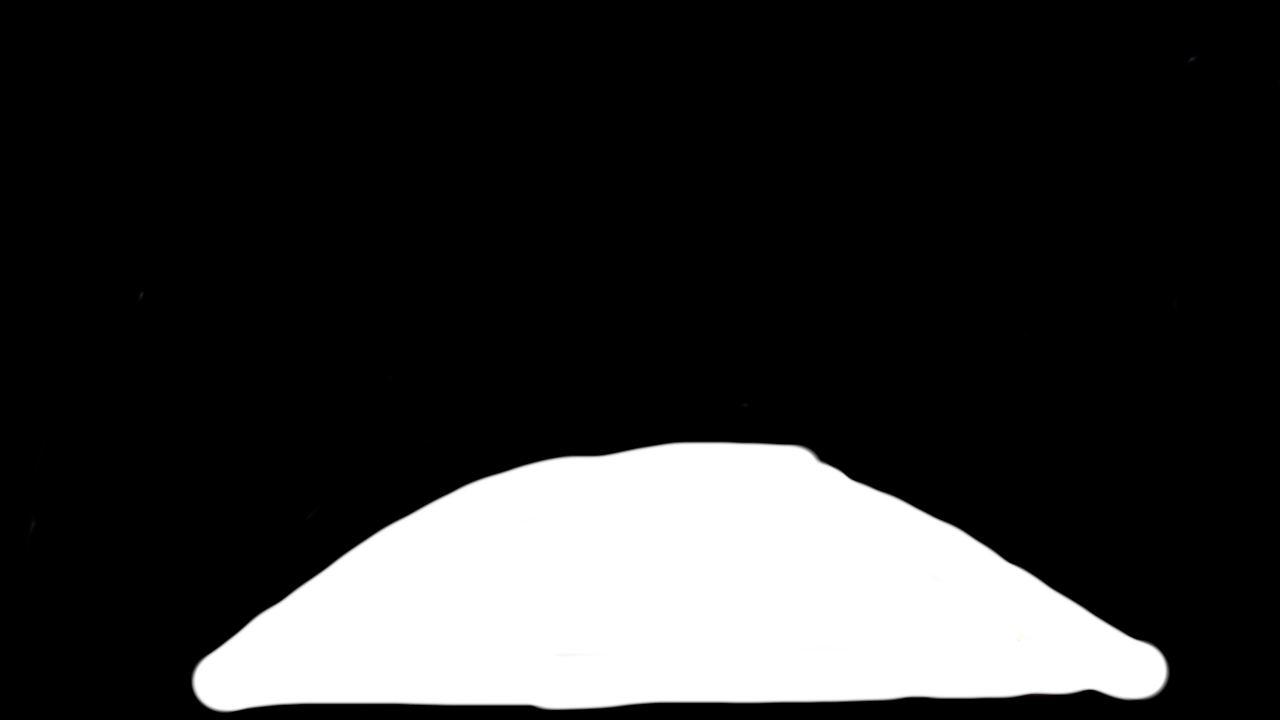
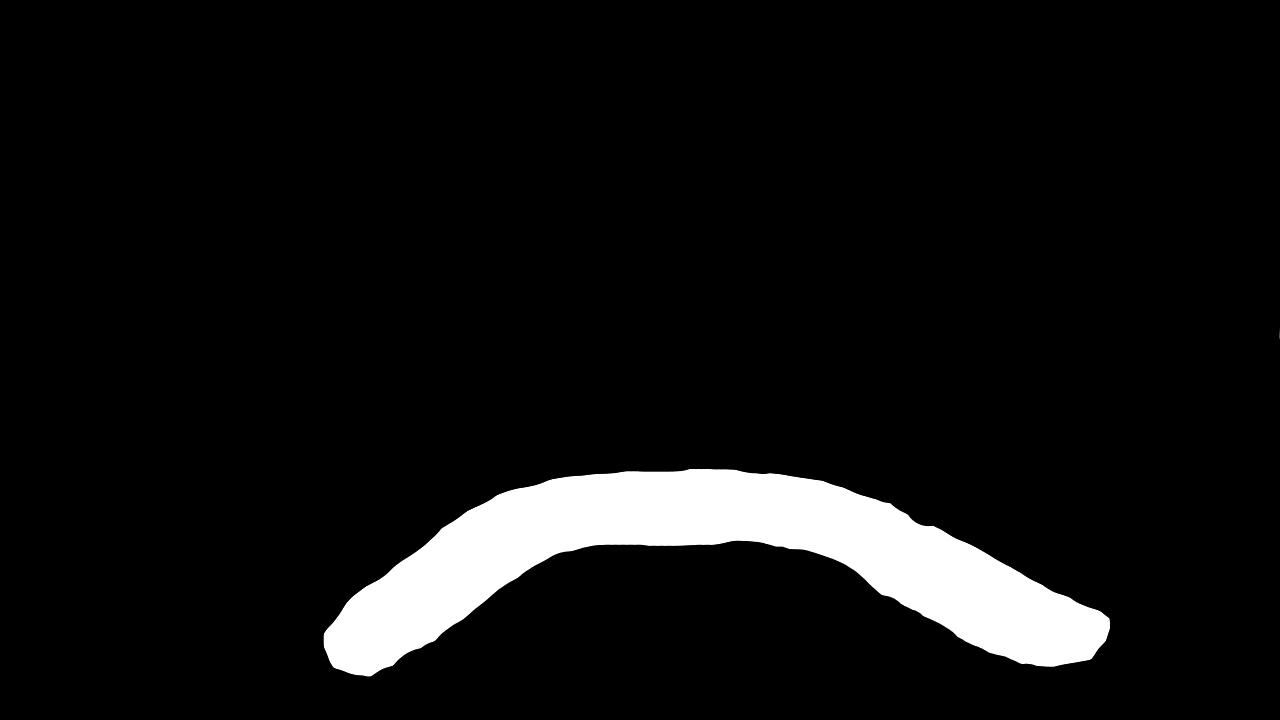
lane detection with final mask and blurr adaption

Changed region(s): [[0.125, 0.6111, 0.9375, 1.0]]

diff --git a/edgeDetection/lane_detection_ue2_optimized.py b/edgeDetection/lane_detection_ue2_optimized.py
@@ -43,7 +43,7 @@ def processFrame(img):
     h, w = edges.shape
 
     # mask
-    mask = cv2.imread("data/mask_final.png", cv2.IMREAD_GRAYSCALE)
+    mask = cv2.imread("data/mask.png", cv2.IMREAD_GRAYSCALE)
     edges[mask == 0] = 0
 
     H = getParameterSpace(edges)
@@ -142,7 +142,7 @@ if __name__ == '__main__':
         if not ret:
             break
 
-        ksize = (4, 4)
+        ksize = (3, 3)
         frame = cv2.blur(frame, ksize)
         processedFrame = processFrame(frame)
         cv2.imshow("Result", processedFrame)

diff --git a/edgeDetection/lane_detection_ue2.py b/edgeDetection/lane_detection_ue2.py
@@ -18,7 +18,7 @@ def processFrame(img):
     cv2.imshow("edges", edges)
 
     # mask
-    mask = cv2.imread("data/mask_final.png", cv2.IMREAD_GRAYSCALE)
+    mask = cv2.imread("data/mask.png", cv2.IMREAD_GRAYSCALE)
     edges[mask == 0] = 0
 
     lines = cv2.HoughLines(edges, 1, np.pi / 180, THRESHOLD)
